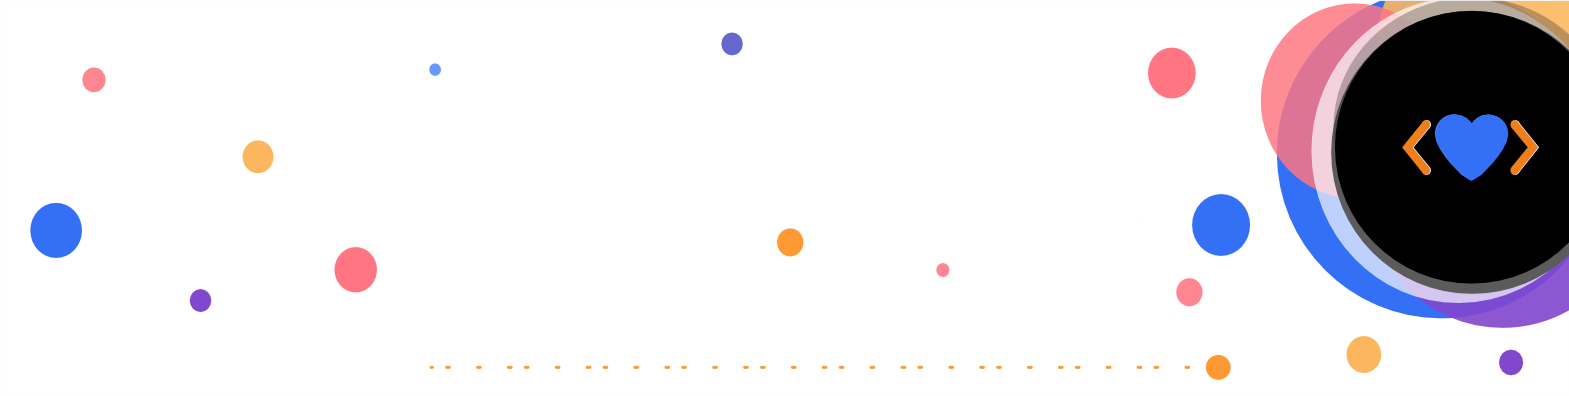
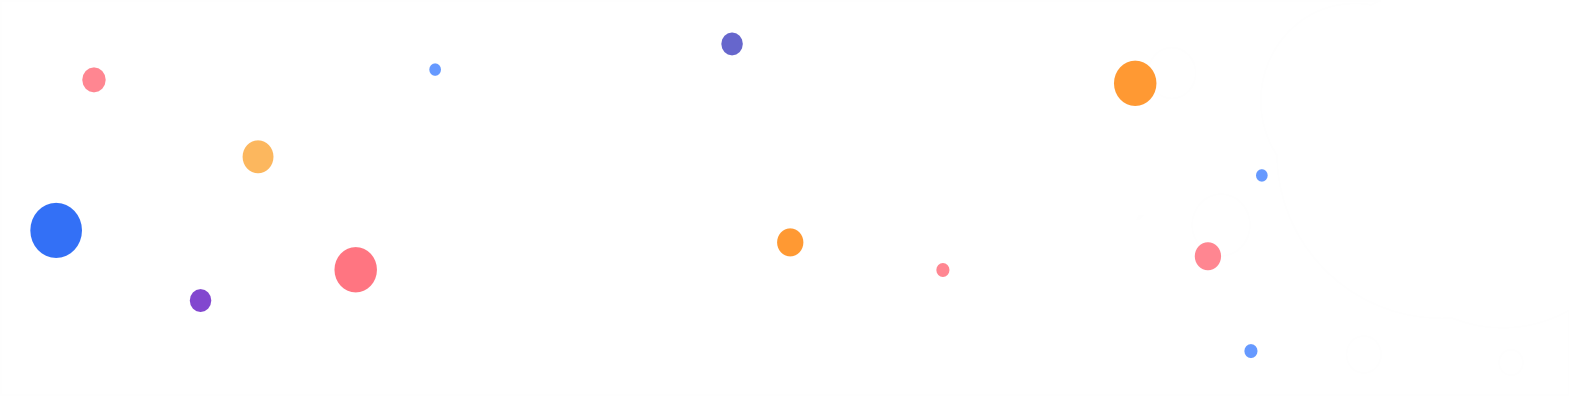
adding styles

diff --git a/index.html b/index.html
@@ -12,6 +12,7 @@
 
     <header>
         <section class="title">
+            <img class="logo" src="./resources/img/logo transparent.png" alt="Logo">
             <h1>
                 <span class="capital-letter-title">M</span>
                 <span class="body-title">aría.</span>
@@ -56,6 +57,10 @@
                         <li>
                             <i class="fa-brands fa-linkedin" style="color: #4a6ce8;"></i>
                             <p>/me-haydee-ponce</p>
+                        </li>
+                        <li>
+                            <i class="fa-brands fa-github" style="color: #CB6CE6;"></i>                        
+                            <p>github.com/hechizera10</p>
                         </li>
                         <li>
                             <i class="fa-solid fa-location-dot" style="color: #91e748;"></i>
@@ -214,21 +219,21 @@
             <section id="voluntariados">
                 <h2 class="section-title">Voluntariados</h2>
                 <dl class="container-right">
-                    <dt class="year">2016-2022</dt>
+                    <dt class="year">2016 - 2022</dt>
                     <dd class="detail">
                         <h3 class="detail-title">Tutora Universitaria</h3>
                         <h4 class="detail-subtitle">Universidad Autónoma de Entre Ríos</h4>
                     </dd>
                 </dl>
                 <dl class="container-right">
-                    <dt class="year">2018-Actualidad</dt>
+                    <dt class="year">2018 - Actualidad</dt>
                     <dd class="detail">
                         <h3 class="detail-title">Organizadora de abordajes territoriales </h3>
                         <h4 class="detail-subtitle">Programa Tejiendo Matria</h4>
                     </dd>
                 </dl>                
                 <dl class="container-right">
-                    <dt class="year">2015-2016</dt>
+                    <dt class="year">2015 - 2016</dt>
                     <dd class="detail">
                         <h3 class="detail-title">Coordinadora de programa de Inclusión Infantil</h3>
                         <h4 class="detail-subtitle">Centro de Atención Primaria de la Salud</h4>

diff --git a/css/styles.css b/css/styles.css
@@ -36,6 +36,15 @@ i, li::before{
 
 
 /*Header*/
+
+.logo{
+    height: 439px;
+    width: 355px;
+    position: absolute;
+    top: -18%;
+    left: 80.5%;
+    transform: scaleX(-1);
+}
 header>section.title{
     background-image: url(../resources/img/headerbackground.png);
     background-position: center;
@@ -47,7 +56,7 @@ header>section.title{
     flex-direction: column;
     padding-top: 8%;
     padding-left: 27%;
-
+    z-index: -1;
 }
 
 
@@ -84,7 +93,15 @@ span.body-title:last-child{
     font-family: 'Gill Sans', 'Gill Sans MT', Calibri, 'Trebuchet MS', sans-serif;
 
 }
-
+.subtitle-head::after{
+    content: '······································●';
+    width: 20px;
+    display: block;
+    line-height: 0.1em;
+    letter-spacing: 0.25em;
+    font-size: 0.7em;
+    color: #FF9933;
+}
 /*Main Menu*/
 main{
     display: flex;
@@ -207,13 +224,33 @@ dl.container-right{
 }
 .year{
     padding-left: 2em;
+    padding-right: 2em;
     text-align: right;
-    width: 8em;
+    width: 10em;
 }
 .detail{
-    padding-left: 4em;
+    padding-left: 2em;
     padding-right: 2em;
     width: 42em;
+    border-style: none none none dotted;
+    border-width: 2px;
+}
+
+.detail::before{
+    content: '●';
+    width: 20px;
+    position: relative;
+    right: 2.35em;
+    top: -0.45em;
+    line-height: 0.2em;
+
+}
+.detail::after{
+    content: '●';
+    width: 20px;
+    position: relative;
+    right: 2.35em;
+    top: 0.5em;
 }
 .detail-title{
     font-weight: 600;
